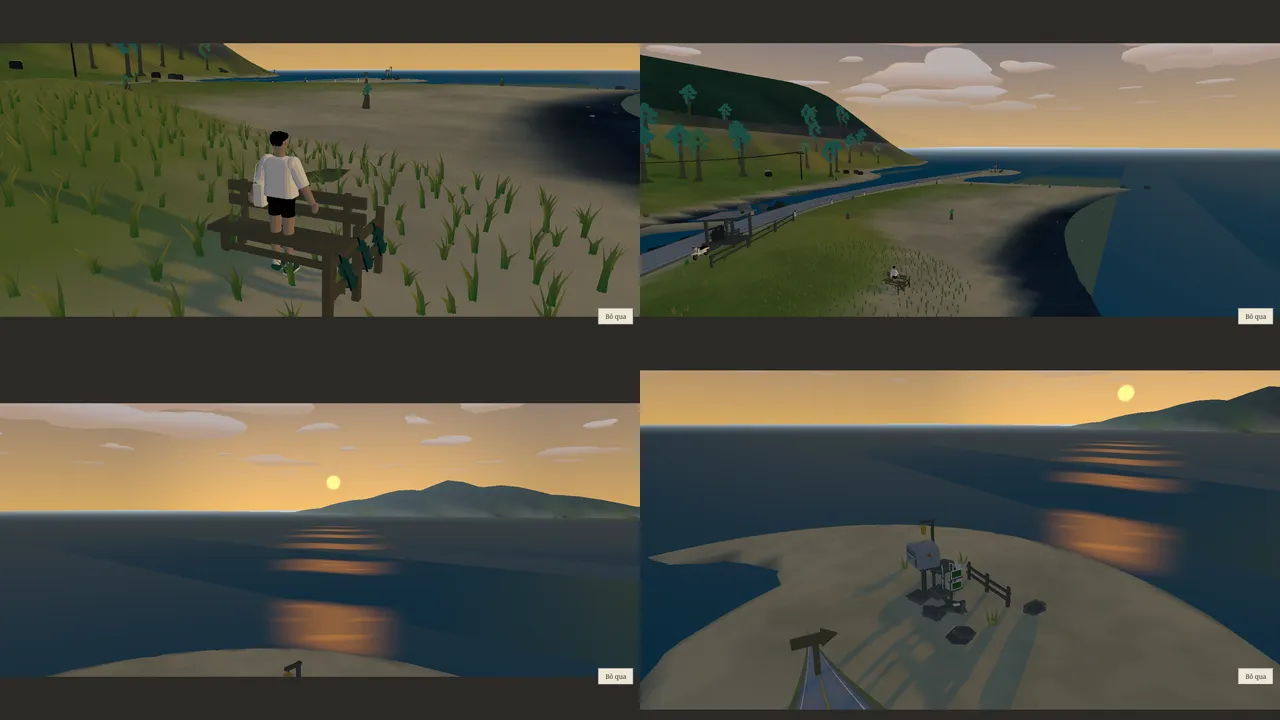
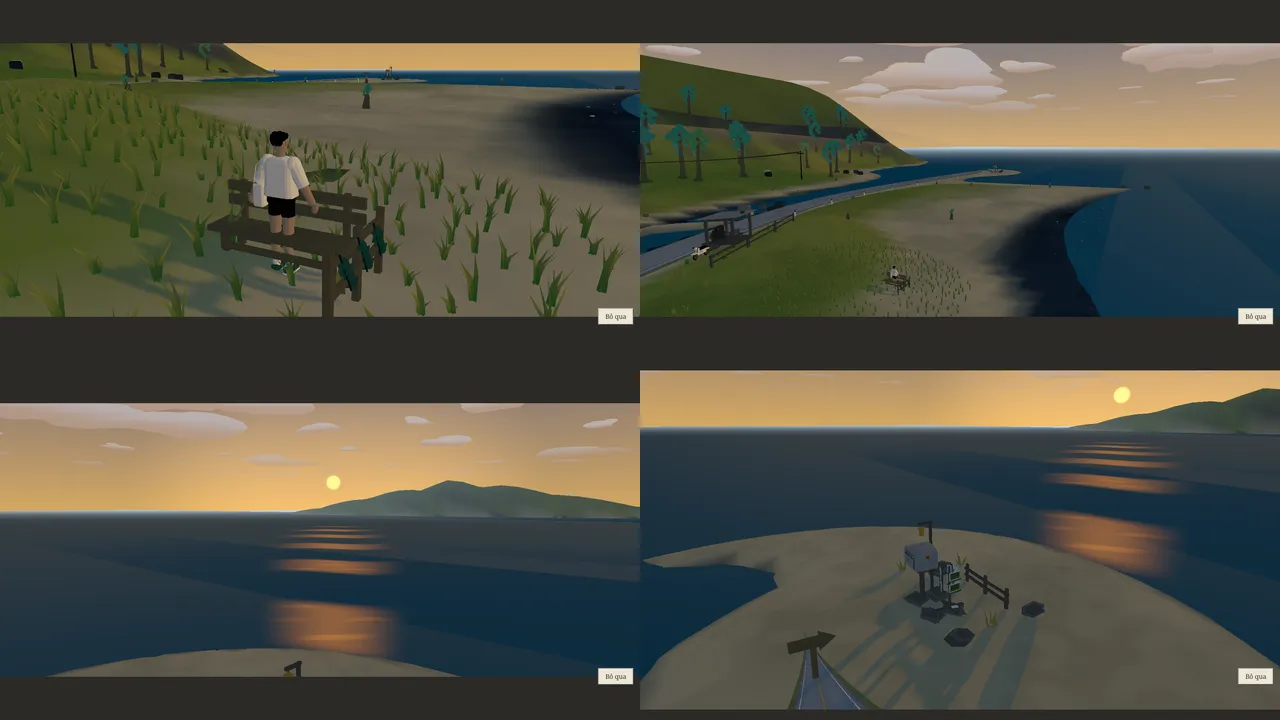
docs(status): batch 29b ride, camera, gameplay light, estuary; showcase 29

diff --git a/docs/PROJECT_STATUS.md b/docs/PROJECT_STATUS.md
@@ -546,6 +546,30 @@ Showcase: `docs/showcase/26-asset-ky/checklist.md`. Chưa push.
 | T10, playtest người thật | **DEFERRED** (chờ UX/UI ~90–100 %) |
 | T08/T09 Iris Xe | **NOT RUN** |
 
+### Đợt 29b (2026-11-07): đi xe, camera, ánh sáng lúc chơi, cửa sông
+
+- B2-236 (Codex, 2 vòng): chân trời intro mượt (`setFogColorOverride`), cảnh bưu thiếp hết mảng tối (mặt nạ cửa sông chỉ trong ending).
+- B2-237 (Codex + Lead nối): người lái ngồi trên xe bằng rig sẵn có; xuống xe tìm chỗ an toàn hai bên, báo lý do vi/en.
+- B2-238 (**Lead tự làm**): bản Codex tốn CPU (+45 ms/s ở First Light) và gây màn hình đen sau ending → bỏ; Lead sửa tối thiểu: camera xe 0,75× arm, thấp hơn 7,5°; bỏ va chạm < 0,35 m quanh nhân vật (hết khối đen ở bí mật reflection).
+- B2-239 (Codex, 2 vòng): luma lúc chơi theo art bible (rừng 0,19 → 0,24–0,26 giữ xanh rêu; Horizon 0,16 → 0,32 do sửa ánh xạ tod).
+- B2-240 (Codex hết lượt giữa chừng, Lead hoàn tất): hết "bóng đất giả" ở biển Last Postcard. Phần cắt dải sông làm **mất suối ở Horizon** → Lead hoàn lại phần đó, giữ mặt nạ ending.
+- Lead: tán xa pha màu rêu (hết khối vuông tối trong intro sau B2-239); hook QA `nearVehicle`, `visitSecret`; công cụ `tools/review/{ending-shots,extras-shots,luma,ground-hue,cpu-compare,frame-compare}.mjs`.
+- Codex: tài khoản hiện tại hết lượt tuần (tới 12/11 16:23). Chờ Duy đổi tài khoản.
+
+| Kiểm tra (trên `5e2c61c`) | Kết quả |
+|---|---|
+| lint, typecheck, unit 1642 | **PASS** |
+| e2e | **151/151 PASS** |
+| perf: thời gian tới playable | **5,16 s** (xấu nhất 3 lần) **PASS** |
+| perf: 3D bytes | **PASS**, 2,00 MB / 8 MB |
+| Lighthouse | **PASS** |
+| T10, playtest người thật | **DEFERRED** (chờ UX/UI ~90–100 %) |
+| T08/T09 Iris Xe | **NOT RUN** |
+
+Showcase: `docs/showcase/29-hoan-thien/checklist.md`.
+
+Việc tiếp theo đề xuất: (1) intro nhìn từ trên cao rừng thưa như đồng cỏ: cần tán xa dạng cây/impostor; (2) dải tối dọc vách ở Quiet Shore; (3) biển Last Postcard lúc chơi còn tối (luma 0,21); (4) cửa sông đè biển lúc chơi (sửa gốc đúng cách, theo độ cao địa hình thay vì trục z).
+
 ### Ticket tiếp theo
 
 1. Vòng sửa thứ hai đã xong (B2-181c, 188c, 191b, 194, 195, 196, 197, 204b, 208b). Còn B2-198: cây vòm có cành lớn thật để tán khép trên lối.

diff --git a/docs/showcase/29-hoan-thien/checklist.md b/docs/showcase/29-hoan-thien/checklist.md
@@ -1,0 +1,16 @@
+# Đợt 29: hoàn thiện cảnh quay, đi xe, ánh sáng lúc chơi (2026-11-07)
+
+Ảnh chụp Edge 1600×900 từ bản build thật. Duy đánh dấu **giữ / sửa / bỏ** cho từng mục (chưa phải chấm T10).
+
+| # | Mục | Ảnh | Giữ / sửa / bỏ |
+|---|---|---|---|
+| 1 | Cảnh mở đầu: bay bình minh dọc suối chữ S, có trời/mây, viền điện ảnh tối (B2-234/235/236) | `intro.webp` (1,5 / 4 / 7 / 10 s) | |
+| 2 | Cảnh kết 36 s: hoàng hôn ven biển, mặt trời thấp, vệt nắng trên biển; thẻ thơ và HUD ẩn | `ending.webp` (4 / 14 / 26 / 34,5 s) | |
+| 3 | Người lái ngồi trên xe GD110; camera đi xe gần hơn; xuống xe khi dừng hẳn (B2-237/238) | `bi-mat-va-xe.webp`, `lead-review-b2-237.webp` | |
+| 4 | Bí mật "reflection": hết khối đen, thấy nhân vật trong vòm | `bi-mat-va-xe.webp` (ô 1) | |
+| 5 | Ánh sáng lúc chơi 8 khu theo art bible: rừng xanh rêu sáng hơn, đồi Horizon nắng muộn (B2-239) | `ingame-8-khu.webp` | |
+| 6 | Biển ở Last Postcard lúc chơi: hết "bóng đất giả" (B2-240) | `ingame-8-khu.webp` (ô 8) | |
+
+Ảnh hiện trạng trước khi sửa: `hien-trang/`. Ảnh duyệt từng vòng: `lead-review-*.webp`.
+
+Luma màn hình lúc chơi (trung bình xám 0..1, `tools/review/luma.mjs`): first-light 0,259 · roots 0,249 · workshop 0,241 · milestones 0,248 · old-trail 0,406 · horizon 0,323 · quiet-shore 0,272 · last-postcard 0,210.
